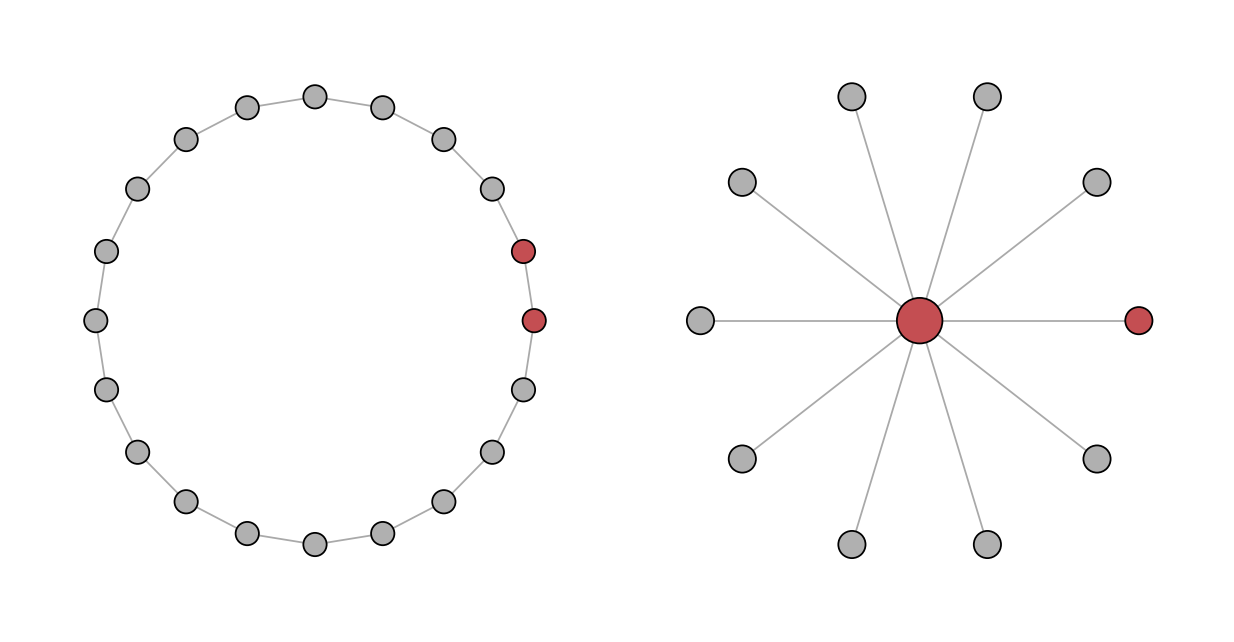
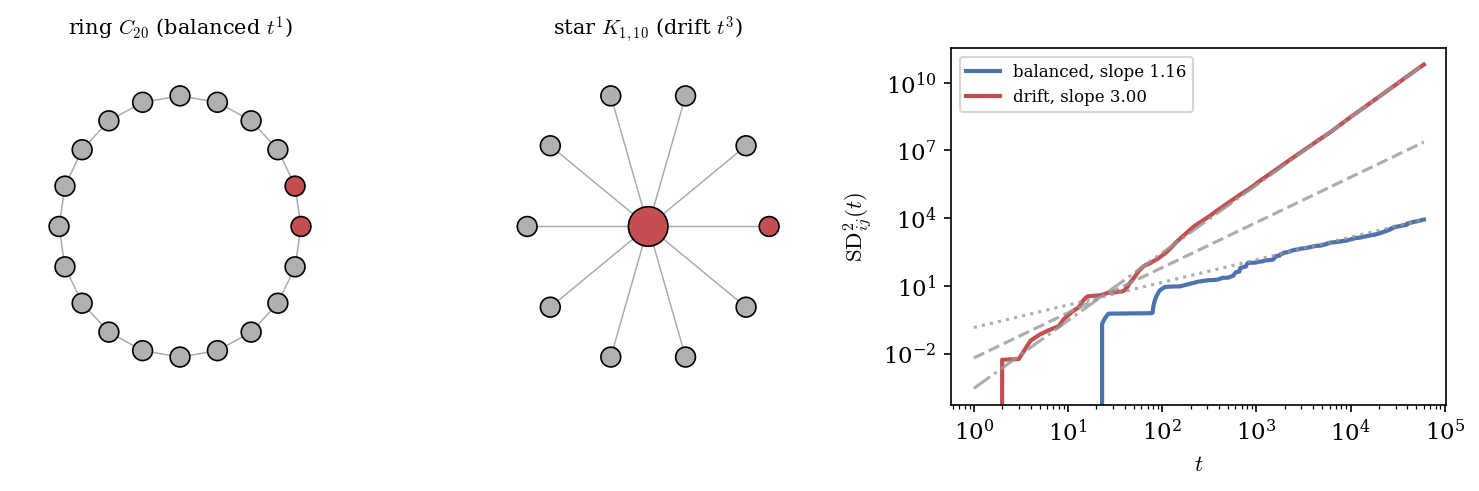
블로그: 전 예제 정본 rich figure 통일
tier·directed·collapse 를 정본 pyhst(AAA)로 rich 3패널(그래프+임베딩+결과) 생성해 교체.
접힌 개별 결과플롯(_08/_12/_14) 제거. 이제 여섯 예제 전부 그래프+임베딩+수렴/비교 한 장.

diff --git a/docs/Posts/260722_e376f9.html b/docs/Posts/260722_e376f9.html
@@ -450,8 +450,8 @@ mjx-container[display="true"] { text-align: left !important; margin-left: 0 !imp
 <p>가 된다. 세 값이 세 개의 고전적 거동이다: <span class="math inline">\(k=0\)</span>이면 <span class="math inline">\(t^3\)</span>(<strong>드리프트</strong>), <span class="math inline">\(k=1\)</span>이면 <span class="math inline">\(t^2\)</span>(<strong>중간</strong>), <span class="math inline">\(k=2\)</span>이면 <span class="math inline">\(t^1\)</span>(<strong>균형</strong>). 이 분류가 어림짐작이 아님을 두 개의 작은 그래프로 확인한다.</p>
 <div class="quarto-figure quarto-figure-center">
 <figure class="figure">
-<p><img src="attachments/260722_e376f9_07.png" class="img-fluid figure-img" style="width:78.0%"></p>
-<figcaption>왼쪽 링 <span class="math inline">\(C_{20}\)</span>의 이웃 쌍(빨강): 두 노드가 대칭이라 똑같이 자주 방문돼 높이 차가 정상 상태에 머문다 → 균형 <span class="math inline">\(t^1\)</span>. 오른쪽 별 <span class="math inline">\(K_{1,10}\)</span>의 허브–잎 쌍(빨강): 차수에 비례하는 낙하가 큰 허브를 과도하게 채워 높이 차가 벌어진다 → 드리프트 <span class="math inline">\(t^3\)</span>.</figcaption>
+<p><img src="attachments/260722_e376f9_07.png" class="img-fluid figure-img" style="width:96.0%"></p>
+<figcaption>티어 실험. 왼쪽 링 <span class="math inline">\(C_{20}\)</span>의 이웃 쌍(빨강)은 대칭이라 높이 차가 정상 상태에 머물러 <strong>균형 <span class="math inline">\(t^1\)</span></strong>, 가운데 별 <span class="math inline">\(K_{1,10}\)</span>의 허브–잎 쌍(빨강)은 차수 비례 낙하가 허브를 과도하게 채워 <strong>드리프트 <span class="math inline">\(t^3\)</span></strong>. 오른쪽 로그–로그 성장이 두 기울기(<span class="math inline">\(\approx 1\)</span>, <span class="math inline">\(\approx 3\)</span>)를 정확히 집어낸다.</figcaption>
 </figure>
 </div>
 <p>왜 이렇게 갈리는지가 이 그래프의 핵심이다. <strong>링에서는</strong> 이웃한 두 노드가 서로 거울상이라 눈을 받는 빈도가 같다. 한쪽이 잠깐 높아지면 흐름이 그쪽에서 반대쪽으로 눈을 실어 나르며 곧 균형을 되찾는다. 그래서 높이 차가 0 주변을 진동하고, 그 제곱을 쌓아도 <span class="math inline">\(t^1\)</span>로만 자란다. <strong>별에서는</strong> 사정이 다르다. 낙하가 가중차수에 비례하니 차수 10인 허브가 차수 1인 잎보다 열 배 자주 새 눈을 받는다. 게다가 허브에 올라온 걷는 이는 낮은 잎들로 쉽게 흘러 나가지만, 잎에 있는 걷는 이는 유일한 이웃인 높은 허브로 못 올라가 자주 막힌다. 두 효과가 겹쳐 허브가 잎보다 꾸준히 빨리 쌓이고, 높이 차가 시간에 <strong>선형으로 벌어진다</strong>(드리프트). 그 제곱은 <span class="math inline">\(t^2\)</span>, 시간 누적은 <span class="math inline">\(t^3\)</span>이다.</p>
@@ -471,13 +471,7 @@ mjx-container[display="true"] { text-align: left !important; margin-left: 0 !imp
 <span id="cb5-14"><a href="#cb5-14" aria-hidden="true" tabindex="-1"></a></span>
 <span id="cb5-15"><a href="#cb5-15" aria-hidden="true" tabindex="-1"></a><span class="bu">print</span>(<span class="bu">round</span>(fit_slope(sd2_traj(ring20, <span class="dv">0</span>, <span class="dv">1</span>), <span class="dv">60000</span>), <span class="dv">2</span>))   <span class="co"># 1.12  ≈ t^1  (균형)</span></span>
 <span id="cb5-16"><a href="#cb5-16" aria-hidden="true" tabindex="-1"></a><span class="bu">print</span>(<span class="bu">round</span>(fit_slope(sd2_traj(star,   <span class="dv">0</span>, <span class="dv">1</span>), <span class="dv">60000</span>), <span class="dv">2</span>))   <span class="co"># 3.04  ≈ t^3  (드리프트)</span></span></code></pre></div><button title="Copy to Clipboard" class="code-copy-button"><i class="bi"></i></button></div>
-<div class="quarto-figure quarto-figure-center">
-<figure class="figure">
-<p><img src="attachments/260722_e376f9_08.png" class="img-fluid figure-img" style="width:60.0%"></p>
-<figcaption><span class="math inline">\(\mathrm{SD}^2_{ij}(t)\)</span>의 로그–로그 성장. 링 이웃 쌍은 기울기 <span class="math inline">\(1.12\)</span>(<span class="math inline">\(t^1\)</span>), 별 허브–잎 쌍은 기울기 <span class="math inline">\(3.04\)</span>(<span class="math inline">\(t^3\)</span>). 중간 티어 <span class="math inline">\(t^2\)</span>는 이 둘을 가르는 경계선이다.</figcaption>
-</figure>
-</div>
-<p>측정된 두 기울기 <span class="math inline">\(1.12\)</span>와 <span class="math inline">\(3.04\)</span>가 <span class="math inline">\(t^1\)</span>과 <span class="math inline">\(t^3\)</span>을 정확히 집어낸다. 중간 티어 <span class="math inline">\(t^2\)</span>는 일반적으로 나타나는 지수가 아니라 두 거동을 가르는 <strong>칼날 같은 경계</strong>로, 드리프트 쌍이 점유 격차를 0으로 좁히며 균형으로 이완하는 딱 그 순간에만 걸린다. 드리프트의 원인인 “허브가 선형으로 벌어진다”는 것도 직접 확인할 수 있다.</p>
+<p>측정된 두 기울기가 <span class="math inline">\(t^1\)</span>과 <span class="math inline">\(t^3\)</span>을 정확히 집어낸다(위 그림 오른쪽). 중간 티어 <span class="math inline">\(t^2\)</span>는 일반적으로 나타나는 지수가 아니라 두 거동을 가르는 <strong>칼날 같은 경계</strong>로, 드리프트 쌍이 점유 격차를 0으로 좁히며 균형으로 이완하는 딱 그 순간에만 걸린다. 드리프트의 원인인 “허브가 선형으로 벌어진다”는 것도 직접 확인할 수 있다.</p>
 <div class="code-copy-outer-scaffold"><div class="sourceCode" id="cb6"><pre class="sourceCode python code-with-copy"><code class="sourceCode python"><span id="cb6-1"><a href="#cb6-1" aria-hidden="true" tabindex="-1"></a>H, _ <span class="op">=</span> hst_run(star, np.zeros(<span class="dv">11</span>), b<span class="op">=</span><span class="fl">0.5</span>, T<span class="op">=</span><span class="dv">60000</span>, seed<span class="op">=</span><span class="dv">1</span>)</span>
 <span id="cb6-2"><a href="#cb6-2" aria-hidden="true" tabindex="-1"></a>gap <span class="op">=</span> H[<span class="dv">0</span>] <span class="op">-</span> H[<span class="dv">1</span>]                       <span class="co"># 허브 − 잎 높이 차</span></span>
 <span id="cb6-3"><a href="#cb6-3" aria-hidden="true" tabindex="-1"></a><span class="bu">print</span>(gap[<span class="dv">10000</span>], gap[<span class="dv">30000</span>], gap[<span class="dv">60000</span>])   <span class="co"># 303, 919, 1852  ← 시간에 비례 = 드리프트</span></span></code></pre></div><button title="Copy to Clipboard" class="code-copy-button"><i class="bi"></i></button></div>
@@ -528,8 +522,8 @@ mjx-container[display="true"] { text-align: left !important; margin-left: 0 !imp
 <p>랜덤워크·저항 거리는 <strong>가역</strong> 워크에서만 정의된다. 방향 그래프에서는 먼저 간선을 대칭화해 화살표를 지워야 한다. 그런데 지우고 나면 안 보이는 구조가 있다. <span class="math inline">\(a \to \{b,c\} \to d\)</span>에 여분의 호 <span class="math inline">\(b \to c\)</span>를 더한 그래프를 보자.</p>
 <div class="quarto-figure quarto-figure-center">
 <figure class="figure">
-<p><img src="attachments/260722_e376f9_11.png" class="img-fluid figure-img" style="width:50.0%"></p>
-<figcaption>방향 그래프 <span class="math inline">\(a\to\{b,c\}\to d\)</span>에 <span class="math inline">\(b\to c\)</span>를 더한 것. 화살표를 지워 무향으로 만들면 <span class="math inline">\(b\)</span>와 <span class="math inline">\(c\)</span>는 서로의 거울상이 되지만, 방향을 살리면 <span class="math inline">\(b\)</span>가 <span class="math inline">\(c\)</span>의 상류다.</figcaption>
+<p><img src="attachments/260722_e376f9_11.png" class="img-fluid figure-img" style="width:96.0%"></p>
+<figcaption>방향 예제. 왼쪽은 그래프(<span class="math inline">\(a\to\{b,c\}\to d\)</span>에 <span class="math inline">\(b\to c\)</span>), 가운데는 snow 임베딩(<span class="math inline">\(b,c\)</span>가 갈라진다), 오른쪽은 비대칭도 — 가역·diffusion 거리는 무향화하면 <span class="math inline">\(b,c\)</span>가 대칭이라 <span class="math inline">\(0\)</span>, snow만 방향을 읽는다.</figcaption>
 </figure>
 </div>
 <p>간선을 무향으로 만드는 순간 <span class="math inline">\(b\)</span>와 <span class="math inline">\(c\)</span>는 완전히 대칭이 된다(둘 다 <span class="math inline">\(a,d\)</span>와 이어지고 서로 이어진다). 그래서 모든 가역 거리가 <span class="math inline">\(d(d,b) = d(d,c)\)</span>로, 둘을 <strong>정확히 같게</strong> 본다. 화살표를 지웠으니 당연하다. 하지만 흐름에서는 <span class="math inline">\(b\)</span>가 <span class="math inline">\(c\)</span>의 상류다 — 눈은 <span class="math inline">\(b\)</span>에서 <span class="math inline">\(c\)</span>로 흐르지 그 반대로는 안 흐른다. snow는 이 방향을 그대로 읽는다.</p>
@@ -543,21 +537,15 @@ mjx-container[display="true"] { text-align: left !important; margin-left: 0 !imp
 <span id="cb8-8"><a href="#cb8-8" aria-hidden="true" tabindex="-1"></a>rd_s <span class="op">=</span> resistance_distance(Wsym)</span>
 <span id="cb8-9"><a href="#cb8-9" aria-hidden="true" tabindex="-1"></a><span class="bu">print</span>(<span class="bu">round</span>(SDd[<span class="dv">3</span>, <span class="dv">1</span>] <span class="op">/</span> SDd[<span class="dv">3</span>, <span class="dv">2</span>], <span class="dv">1</span>))          <span class="co"># snow:      28.5  (b,c를 크게 가름)</span></span>
 <span id="cb8-10"><a href="#cb8-10" aria-hidden="true" tabindex="-1"></a><span class="bu">print</span>(rd_s[<span class="dv">3</span>, <span class="dv">1</span>] <span class="op">==</span> rd_s[<span class="dv">3</span>, <span class="dv">2</span>])                 <span class="co"># resistance: True (구별 못함)</span></span></code></pre></div><button title="Copy to Clipboard" class="code-copy-button"><i class="bi"></i></button></div>
-<div class="quarto-figure quarto-figure-center">
-<figure class="figure">
-<p><img src="attachments/260722_e376f9_12.png" class="img-fluid figure-img" style="width:54.0%"></p>
-<figcaption><span class="math inline">\(b,c\)</span>의 비대칭도. 최단·저항·diffusion 모두 무향화 후 <span class="math inline">\(d(d,b)=d(d,c)\)</span>라 <span class="math inline">\(0\)</span>. snow만 방향을 읽어 둘을 크게 가른다.</figcaption>
-</figure>
-</div>
-<p>최단·저항·diffusion 모두 <span class="math inline">\(d(d,b)\)</span>와 <span class="math inline">\(d(d,c)\)</span>를 정확히 같게 주는 반면, snow는 둘을 <span class="math inline">\(28\)</span>배로 가른다. 가역 거리가 정의상 버릴 수밖에 없는 방향 정보를, 무거운 눈 과정은 흐름의 자연스러운 부산물로 직접 읽는다.</p>
+<p>최단·저항·diffusion 모두 <span class="math inline">\(d(d,b)\)</span>와 <span class="math inline">\(d(d,c)\)</span>를 정확히 같게 주는 반면, snow는 둘을 수십 배로 가른다. 가역 거리가 정의상 버릴 수밖에 없는 방향 정보를, 무거운 눈 과정은 흐름의 자연스러운 부산물로 직접 읽는다.</p>
 </section>
 <section id="스케일-스펙트럴-거리가-사라져-버리는-지점-collapse" class="level2">
 <h2 class="anchored" data-anchor-id="스케일-스펙트럴-거리가-사라져-버리는-지점-collapse">스케일 — 스펙트럴 거리가 사라져 버리는 지점 (collapse)</h2>
 <p>스펙트럴 거리들은 스케일 <span class="math inline">\(t_{\mathrm{diff}}\)</span>를 하나 지니는데, 그 스케일을 키워 워크가 충분히 섞이면 모든 정보를 잃는다. 다리 하나로 이어진 두 6-클리크를 보자.</p>
 <div class="quarto-figure quarto-figure-center">
 <figure class="figure">
-<p><img src="attachments/260722_e376f9_13.png" class="img-fluid figure-img" style="width:56.0%"></p>
-<figcaption>다리 하나(빨강)로 이어진 두 6-클리크(주황/초록). 두 군집이 분명히 나뉘어 있지만, diffusion은 스케일을 키우면 이 경계를 지워 버린다.</figcaption>
+<p><img src="attachments/260722_e376f9_13.png" class="img-fluid figure-img" style="width:96.0%"></p>
+<figcaption>스케일 예제. 왼쪽은 그래프(두 6-클리크+다리), 가운데는 snow 임베딩(두 군집이 계속 갈라져 있다), 오른쪽은 최대 diffusion 거리가 스케일 <span class="math inline">\(t_{\mathrm{diff}}\)</span>가 커지며 0으로 붕괴하는 모습.</figcaption>
 </figure>
 </div>
 <p>이 그래프에는 뚜렷한 두 군집과 그 사이의 병목(다리)이 있다. 좋은 거리라면 이 경계를 언제 재도 유지해야 한다. 그런데 diffusion 거리는 스케일 <span class="math inline">\(t_{\mathrm{diff}}\)</span>가 커지면 가장 큰 거리마저 0으로 무너져, 모든 노드가 서로 등거리가 된다 — 과잉혼합이다.</p>
@@ -572,12 +560,6 @@ mjx-container[display="true"] { text-align: left !important; margin-left: 0 !imp
 <span id="cb9-9"><a href="#cb9-9" aria-hidden="true" tabindex="-1"></a><span class="cf">for</span> td <span class="kw">in</span> [<span class="dv">2</span>, <span class="dv">32</span>, <span class="dv">512</span>]:               <span class="co"># diffusion: 스케일을 키우면 최대거리가 붕괴</span></span>
 <span id="cb9-10"><a href="#cb9-10" aria-hidden="true" tabindex="-1"></a>    <span class="bu">print</span>(td, <span class="bu">round</span>(diffusion_distance(Wb, td).<span class="bu">max</span>(), <span class="dv">4</span>))   <span class="co"># 1.895, 0.396, 0.0000</span></span>
 <span id="cb9-11"><a href="#cb9-11" aria-hidden="true" tabindex="-1"></a>SDb <span class="op">=</span> snow_distance(Wb, np.zeros(nb), b<span class="op">=</span><span class="fl">0.5</span>, T<span class="op">=</span><span class="dv">30000</span>, seed<span class="op">=</span><span class="dv">5</span>)   <span class="co"># snow: ~4배로 유지</span></span></code></pre></div><button title="Copy to Clipboard" class="code-copy-button"><i class="bi"></i></button></div>
-<div class="quarto-figure quarto-figure-center">
-<figure class="figure">
-<p><img src="attachments/260722_e376f9_14.png" class="img-fluid figure-img" style="width:78.0%"></p>
-<figcaption>왼쪽: 최대 diffusion 거리가 스케일 <span class="math inline">\(t_{\mathrm{diff}}\)</span>가 커지며 0으로 붕괴. 오른쪽: snow는 스케일 손잡이 없이도 두 군집을 약 4배로 벌려 둔다.</figcaption>
-</figure>
-</div>
 <p>diffusion 거리는 <span class="math inline">\(t_{\mathrm{diff}}=2\)</span>에서 약 <span class="math inline">\(1.9\)</span>였다가 <span class="math inline">\(t_{\mathrm{diff}}=512\)</span>에서는 수치적으로 0까지 무너진다. snow는 그런 붕괴를 겪지 않고 두 군집을 언제나 군집 내부의 약 4배 거리로 벌려 둔다. 눈은 시간에 걸쳐 쌓이지 특정 스케일에서 평형에 도달해 정보를 잃지 않기 때문이다. 아래 애니메이션이 그 대비다 — 왼쪽 diffusion 임베딩은 한 점으로 뭉개지고, 오른쪽 snow 임베딩은 두 군집을 계속 떨어뜨려 둔다.</p>
 <div class="quarto-figure quarto-figure-center">
 <figure class="figure">
